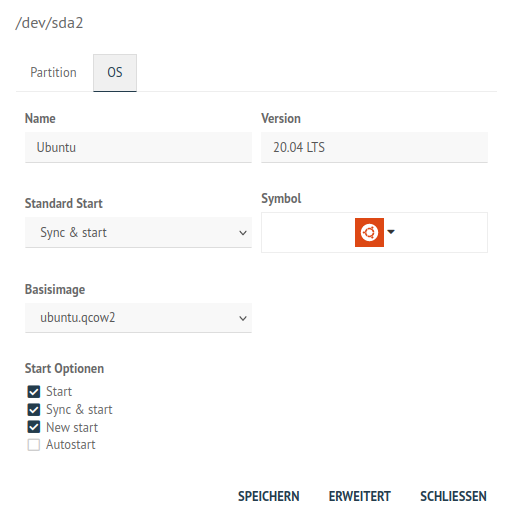
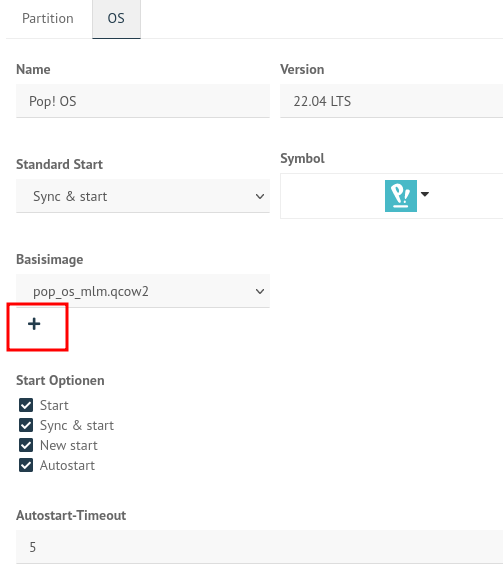
#810 implemented new workflow for creating a new image

diff --git a/source/clients/client_templates/hardware_category/index.rst b/source/clients/client_templates/hardware_category/index.rst
@@ -67,13 +67,15 @@ Löschst Du dort z.B. die Partitionen ``swap`` und ``data`` so sieht Deine Parti
    :align: center
    :alt: WebUI linbo edit new hwc group - partition scheme edited
 
-Um Einstellungen für das Betriebssystem vorzunehmen, klickst Du auf das Stift-Icon (hier für Ubuntu) und es öffnet sich ein weiteres Fenster, um Einstellungen für das Betriebssystem vorzunehmen.
+Um Einstellungen für das Betriebssystem vorzunehmen, klickst Du auf das Stift-Icon. Es öffnet sich ein weiteres Fenster, um Einstellungen für das Betriebssystem vorzunehmen.
 
 .. figure:: media/08-webui-linbo-edit-new-group-os-infos-edited.png
    :align: center
    :alt: WebUI linbo edit new hwc group - os edited
 
-Unter der Reiterkarte ``OS`` legst Du für das Betriebssystem (OS) die gewünschten Icons, die Start-Optionen und u.a. auch den Namen für das Basisimage fest. Zu Beginn bleibt hier der Eintrag ``None`` noch stehen und auch bei ``Start Optionen`` muss ``Autostart`` deaktiviert bleiben, da Du erst das Image für den Muster-Client erstellen musst.
+Unter der Reiterkarte ``OS`` legst Du für das Betriebssystem (OS) die gewünschten Icons, die Start-Optionen und u.a. auch den Namen für das Basisimage fest. Um ein neues Image festzulegen, klickst Du 
+auf das ``+`` - Zeichen und trägst einen neuen Namen für das Image ein. Achte darauf, dass die Dateiendung ``.qcow2`` lautet. Um nun das neue Image zu erstellen, startest Du den Client neu. Es wird 
+das bestehende Image, das unter Basisimage angelegt bzw. ausgewählt wurde - hier das noch nicht existierende Image pop_os_mim.qwco2 -, überschrieben. 
 
 Auf dem linuxmuster.net Server werden die start.conf-Dateien im Verzeichnis ``/srv/linbo`` abgelegt. Jede Hardwareklasse hat eine eigene start.conf-Datei. Für die neu angelegte Hardwareklasse des Muster-Clients wurde dort nun eine Datei ``start.conf.<name-der-hwk>`` erstellt (z.B. start.conf.ubu20efi).
 
@@ -144,7 +146,7 @@ Folgende Konfiguration zeigt ein mögliches Beispiel für die ``Hardwareklasse u
    Description = Ubuntu 20.04
    IconName = ubuntu.svg
    Image =
-   BaseImage = ubuntu.qcow2
+   BaseImage = ubuntu.qcow2 # Name des neu angelegten Images in obiger Abb. ist dies: pop_os_mlm.qcow2
    Boot = /dev/sda2
    Root = /dev/sda2
    Kernel = /boot/vmlinuz

diff --git a/source/installation/install-from-scratch/basis_opnsense.rst b/source/installation/install-from-scratch/basis_opnsense.rst
@@ -441,7 +441,7 @@ Nach erfolgreicher Übernahme erhältst Du den Hinweis, dass Du Dich mit der LAN
    :alt: OPNsense: GUI IP
 
 Bevor Du das aber machst, erfolgt ein letzter Test, und zwar mit der Aktualisierung der Opnsense.
-#####
+
 
 Aktualisierung der OPNsense |reg|
 ---------------------------------
